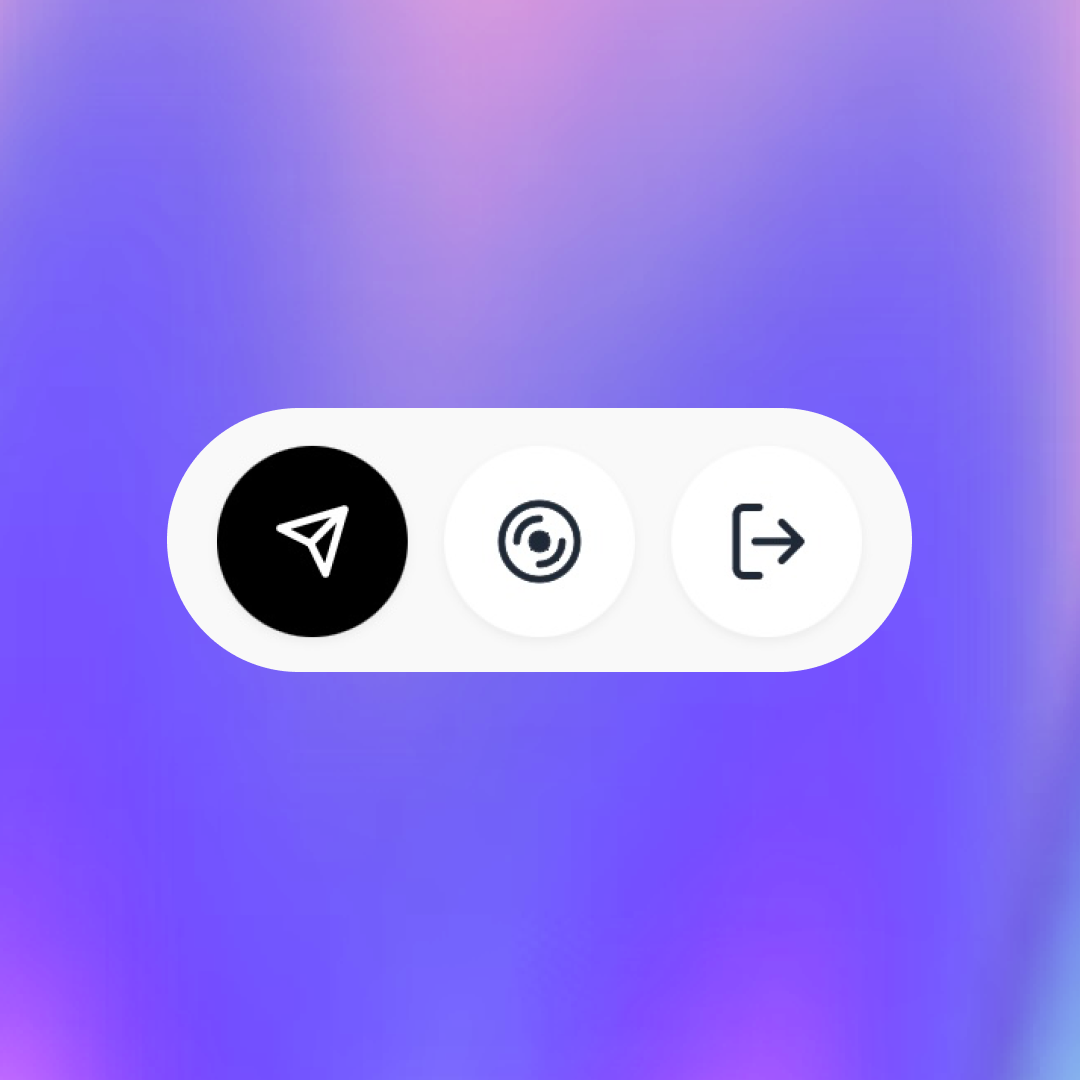
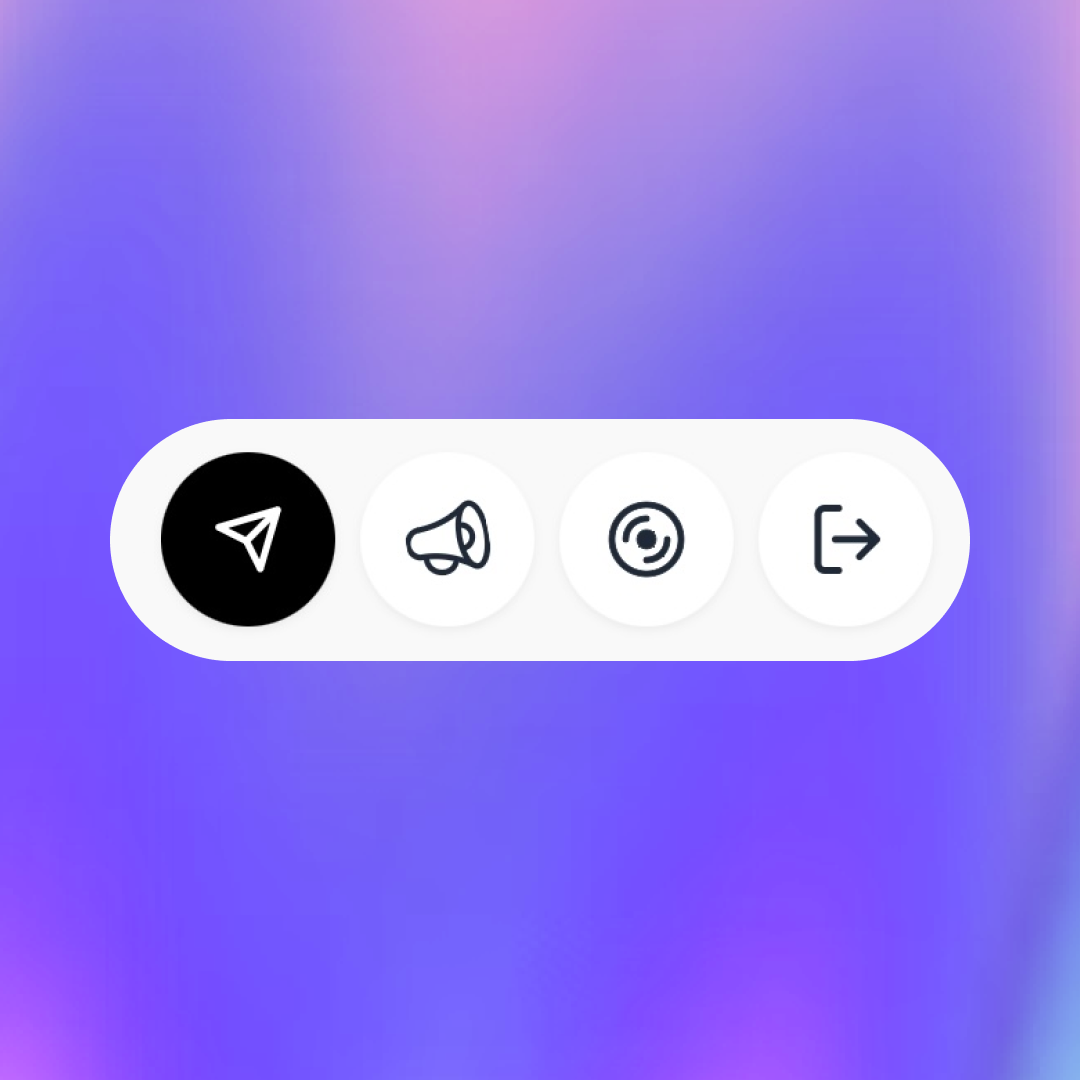
Edit: change to new menu button & add more detailsl

Changed region(s): [[0.0917, 0.3667, 0.9167, 0.6417]]

diff --git a/src/features/Tutorials/components/HowShare.js b/src/features/Tutorials/components/HowShare.js
@@ -14,6 +14,10 @@ import {
   Button,
 } from "@chakra-ui/react";
 
+import First from "../assets/HowShare/1.png";
+import Second from "../assets/HowShare/2.png";
+import Third from "../assets/HowShare/3.png";
+
 function HowShare() {
   const platform = window.navigator.platform;
 
@@ -22,7 +26,7 @@ function HowShare() {
   const isAndroid = platform.indexOf("Android") === 0;
 
   const { activeStep, setStep, backStep, nextStep } = useSteps({
-    totalSteps: 4,
+    totalSteps: 7,
   });
 
   const cancelRef = useRef();
@@ -63,6 +67,92 @@ function HowShare() {
           >
             {activeStep === 1 && (
               <div className="mt-3 flex flex-col items-center">
+                <img className="rounded-3xl" src={First} alt="step1" />
+                <div className="mt-2 flex items-center">
+                  <div
+                    className={`mr-3 flex h-8 w-8 shrink-0 cursor-pointer items-center justify-center rounded-full bg-black text-white`}
+                  >
+                    1
+                  </div>
+                  <p className="text-md">
+                    Click
+                    <svg
+                      className={`mx-2 inline`}
+                      width="20"
+                      height="20"
+                      viewBox="0 0 18 18"
+                      fill="none"
+                      xmlns="http://www.w3.org/2000/svg"
+                    >
+                      <path
+                        d="M9 15.9C7.17001 15.9 5.41496 15.173 4.12096 13.879C2.82696 12.585 2.1 10.83 2.1 9C2.1 7.17001 2.82696 5.41496 4.12096 4.12096C5.41496 2.82696 7.17001 2.1 9 2.1C10.83 2.1 12.585 2.82696 13.879 4.12096C15.173 5.41496 15.9 7.17001 15.9 9C15.9 10.83 15.173 12.585 13.879 13.879C12.585 15.173 10.83 15.9 9 15.9ZM9 17.1C11.1483 17.1 13.2085 16.2466 14.7276 14.7276C16.2466 13.2085 17.1 11.1483 17.1 9C17.1 6.85175 16.2466 4.79148 14.7276 3.27244C13.2085 1.75339 11.1483 0.9 9 0.9C6.85175 0.9 4.79148 1.75339 3.27244 3.27244C1.75339 4.79148 0.9 6.85175 0.9 9C0.9 11.1483 1.75339 13.2085 3.27244 14.7276C4.79148 16.2466 6.85175 17.1 9 17.1Z"
+                        fill="currentColor"
+                        stroke="currentColor"
+                        strokeWidth="0.2"
+                      />
+                      <path
+                        d="M10.4849 10.4849C10.8788 10.0911 11.1 9.55695 11.1 9C11.1 8.44305 10.8788 7.9089 10.4849 7.51508C10.0911 7.12125 9.55695 6.9 9 6.9C8.44305 6.9 7.9089 7.12125 7.51508 7.51508C7.12125 7.9089 6.9 8.44305 6.9 9C6.9 9.55695 7.12125 10.0911 7.51508 10.4849C7.9089 10.8788 8.44305 11.1 9 11.1C9.55695 11.1 10.0911 10.8788 10.4849 10.4849ZM6.24228 6.24228C6.97368 5.51089 7.96566 5.1 9 5.1C9.15913 5.1 9.31174 5.03679 9.42426 4.92426C9.53679 4.81174 9.6 4.65913 9.6 4.5C9.6 4.34087 9.53679 4.18826 9.42426 4.07574C9.31174 3.96321 9.15913 3.9 9 3.9C7.6474 3.9 6.35019 4.43732 5.39376 5.39376C4.43732 6.35019 3.9 7.6474 3.9 9C3.9 9.15913 3.96321 9.31174 4.07574 9.42426C4.18826 9.53679 4.34087 9.6 4.5 9.6C4.65913 9.6 4.81174 9.53679 4.92426 9.42426C5.03679 9.31174 5.1 9.15913 5.1 9C5.1 7.96566 5.51089 6.97368 6.24228 6.24228ZM13.9243 8.57574C13.8117 8.46321 13.6591 8.4 13.5 8.4C13.3409 8.4 13.1883 8.46321 13.0757 8.57574C12.9632 8.68826 12.9 8.84087 12.9 9C12.9 10.0343 12.4891 11.0263 11.7577 11.7577C11.0263 12.4891 10.0343 12.9 9 12.9C8.84087 12.9 8.68826 12.9632 8.57574 13.0757C8.46321 13.1883 8.4 13.3409 8.4 13.5C8.4 13.6591 8.46321 13.8117 8.57574 13.9243C8.68826 14.0368 8.84087 14.1 9 14.1C10.3526 14.1 11.6498 13.5627 12.6062 12.6062C13.5627 11.6498 14.1 10.3526 14.1 9C14.1 8.84087 14.0368 8.68826 13.9243 8.57574Z"
+                        fill="currentColor"
+                        stroke="currentColor"
+                        strokeWidth="0.2"
+                      />
+                    </svg>
+                    button on the top right.
+                  </p>
+                </div>
+              </div>
+            )}
+            {activeStep === 2 && (
+              <div className="mt-3 flex flex-col items-center">
+                <img className="rounded-3xl" src={Second} alt="step2" />
+                <div className="mt-2 flex items-center">
+                  <div
+                    className={`mr-3 flex h-8 w-8 shrink-0 cursor-pointer items-center justify-center rounded-full bg-black text-white`}
+                  >
+                    2
+                  </div>
+                  <p className="text-md">
+                    Click
+                    <svg
+                      className={`mx-2 inline`}
+                      xmlns="http://www.w3.org/2000/svg"
+                      width="20"
+                      height="20"
+                      viewBox="0 0 24 24"
+                      fill="none"
+                      stroke="#000000"
+                      stroke-width="2"
+                      stroke-linecap="round"
+                      stroke-linejoin="round"
+                    >
+                      <circle cx="18" cy="5" r="3"></circle>
+                      <circle cx="6" cy="12" r="3"></circle>
+                      <circle cx="18" cy="19" r="3"></circle>
+                      <line x1="8.59" y1="13.51" x2="15.42" y2="17.49"></line>
+                      <line x1="15.41" y1="6.51" x2="8.59" y2="10.49"></line>
+                    </svg>
+                    button on the bottom right.
+                  </p>
+                </div>
+              </div>
+            )}
+            {activeStep === 3 && (
+              <div className="mt-3 flex flex-col items-center">
+                <img className="rounded-3xl" src={Third} alt="step3" />
+                <div className="mt-2 flex items-center">
+                  <div
+                    className={`mr-3 flex h-8 w-8 shrink-0 cursor-pointer items-center justify-center rounded-full bg-black text-white`}
+                  >
+                    3
+                  </div>
+                  <p className="text-md">
+                    If you want to watch tutorial press next button to go to next step. If you don't want, you can press skip button
+                  </p>
+                </div>
+              </div>
+            )}
+            {activeStep === 4 && (
+              <div className="mt-3 flex flex-col items-center">
                 <video
                   muted
                   playsInline
@@ -75,7 +165,7 @@ function HowShare() {
                   <div
                     className={`mr-3 flex h-8 w-8 shrink-0 cursor-pointer items-center justify-center rounded-full bg-black text-white`}
                   >
-                    1
+                    4
                   </div>
                   <p className="text-md">
                     Long press on the image and <b>Save Image</b> to your
@@ -84,14 +174,14 @@ function HowShare() {
                 </div>
               </div>
             )}
-            {activeStep === 2 && (
+            {activeStep === 5 && (
               <div className="mt-3 flex flex-col items-center">
                 <img src={`story-step2.png`} alt="step2" />
                 <div className="mt-2 flex items-center">
                   <div
                     className={`mr-3 flex h-8 w-8 shrink-0 cursor-pointer items-center justify-center rounded-full bg-black text-white`}
                   >
-                    2
+                    5
                   </div>
                   <p className="text-md">
                     In your story, <b>Click</b> on
@@ -121,7 +211,7 @@ function HowShare() {
                 </div>
               </div>
             )}
-            {activeStep === 3 && (
+            {activeStep === 6 && (
               <div className="mt-3 flex flex-col items-center">
                 <img
                   src={`${
@@ -133,7 +223,7 @@ function HowShare() {
                   <div
                     className={`mr-3 flex h-8 w-8 shrink-0 cursor-pointer items-center justify-center rounded-full bg-black text-white`}
                   >
-                    3
+                    6
                   </div>
                   <p className="text-md">
                     <b>Click</b> on
@@ -168,7 +258,7 @@ function HowShare() {
                 </div>
               </div>
             )}
-            {activeStep === 4 && (
+            {activeStep === 7 && (
               <div className="mt-3 flex flex-col items-center">
                 <video
                   muted
@@ -182,7 +272,7 @@ function HowShare() {
                   <div
                     className={`mr-3 flex h-8 w-8 shrink-0 cursor-pointer items-center justify-center rounded-full bg-black text-white`}
                   >
-                    4
+                    7
                   </div>
                   <p className="text-md">
                     Customize your story and share it to your friends.
@@ -193,7 +283,7 @@ function HowShare() {
             {}
           </AlertDialogBody>
           <AlertDialogFooter display={`flex`} justifyContent={`center`}>
-            {activeStep !== 4 ? (
+            {activeStep !== 7 ? (
               activeStep == 1 ? (
                 <>
                   <Button

diff --git a/src/features/Tutorials/components/WhereSongs.js b/src/features/Tutorials/components/WhereSongs.js
@@ -105,9 +105,29 @@ function WhereSongs() {
                     2
                   </div>
                   <p className="text-md">
-                    The songs you received will be displayed here. You can click{" "}
-                    <b>NEW</b>, <b>ALL</b> to see new received songs or all
-                    received songs.
+                    Click
+                    <svg
+                      className={`mx-2 inline`}
+                      width="20"
+                      height="20"
+                      viewBox="0 0 18 18"
+                      fill="none"
+                      xmlns="http://www.w3.org/2000/svg"
+                    >
+                      <path
+                        d="M9 15.9C7.17001 15.9 5.41496 15.173 4.12096 13.879C2.82696 12.585 2.1 10.83 2.1 9C2.1 7.17001 2.82696 5.41496 4.12096 4.12096C5.41496 2.82696 7.17001 2.1 9 2.1C10.83 2.1 12.585 2.82696 13.879 4.12096C15.173 5.41496 15.9 7.17001 15.9 9C15.9 10.83 15.173 12.585 13.879 13.879C12.585 15.173 10.83 15.9 9 15.9ZM9 17.1C11.1483 17.1 13.2085 16.2466 14.7276 14.7276C16.2466 13.2085 17.1 11.1483 17.1 9C17.1 6.85175 16.2466 4.79148 14.7276 3.27244C13.2085 1.75339 11.1483 0.9 9 0.9C6.85175 0.9 4.79148 1.75339 3.27244 3.27244C1.75339 4.79148 0.9 6.85175 0.9 9C0.9 11.1483 1.75339 13.2085 3.27244 14.7276C4.79148 16.2466 6.85175 17.1 9 17.1Z"
+                        fill="currentColor"
+                        stroke="currentColor"
+                        strokeWidth="0.2"
+                      />
+                      <path
+                        d="M10.4849 10.4849C10.8788 10.0911 11.1 9.55695 11.1 9C11.1 8.44305 10.8788 7.9089 10.4849 7.51508C10.0911 7.12125 9.55695 6.9 9 6.9C8.44305 6.9 7.9089 7.12125 7.51508 7.51508C7.12125 7.9089 6.9 8.44305 6.9 9C6.9 9.55695 7.12125 10.0911 7.51508 10.4849C7.9089 10.8788 8.44305 11.1 9 11.1C9.55695 11.1 10.0911 10.8788 10.4849 10.4849ZM6.24228 6.24228C6.97368 5.51089 7.96566 5.1 9 5.1C9.15913 5.1 9.31174 5.03679 9.42426 4.92426C9.53679 4.81174 9.6 4.65913 9.6 4.5C9.6 4.34087 9.53679 4.18826 9.42426 4.07574C9.31174 3.96321 9.15913 3.9 9 3.9C7.6474 3.9 6.35019 4.43732 5.39376 5.39376C4.43732 6.35019 3.9 7.6474 3.9 9C3.9 9.15913 3.96321 9.31174 4.07574 9.42426C4.18826 9.53679 4.34087 9.6 4.5 9.6C4.65913 9.6 4.81174 9.53679 4.92426 9.42426C5.03679 9.31174 5.1 9.15913 5.1 9C5.1 7.96566 5.51089 6.97368 6.24228 6.24228ZM13.9243 8.57574C13.8117 8.46321 13.6591 8.4 13.5 8.4C13.3409 8.4 13.1883 8.46321 13.0757 8.57574C12.9632 8.68826 12.9 8.84087 12.9 9C12.9 10.0343 12.4891 11.0263 11.7577 11.7577C11.0263 12.4891 10.0343 12.9 9 12.9C8.84087 12.9 8.68826 12.9632 8.57574 13.0757C8.46321 13.1883 8.4 13.3409 8.4 13.5C8.4 13.6591 8.46321 13.8117 8.57574 13.9243C8.68826 14.0368 8.84087 14.1 9 14.1C10.3526 14.1 11.6498 13.5627 12.6062 12.6062C13.5627 11.6498 14.1 10.3526 14.1 9C14.1 8.84087 14.0368 8.68826 13.9243 8.57574Z"
+                        fill="currentColor"
+                        stroke="currentColor"
+                        strokeWidth="0.2"
+                      />
+                    </svg>
+                    button on the bottom right.
                   </p>
                 </div>
               </div>

diff --git a/src/features/Tutorials/Tutorial.js b/src/features/Tutorials/Tutorial.js
@@ -39,7 +39,7 @@ function Tutorial() {
           <WhereLink />
           <WhereSongs />
           <HowGive />
-          {/* <HowShare /> */}
+          <HowShare />
         </div>
       </div>
     </div>
